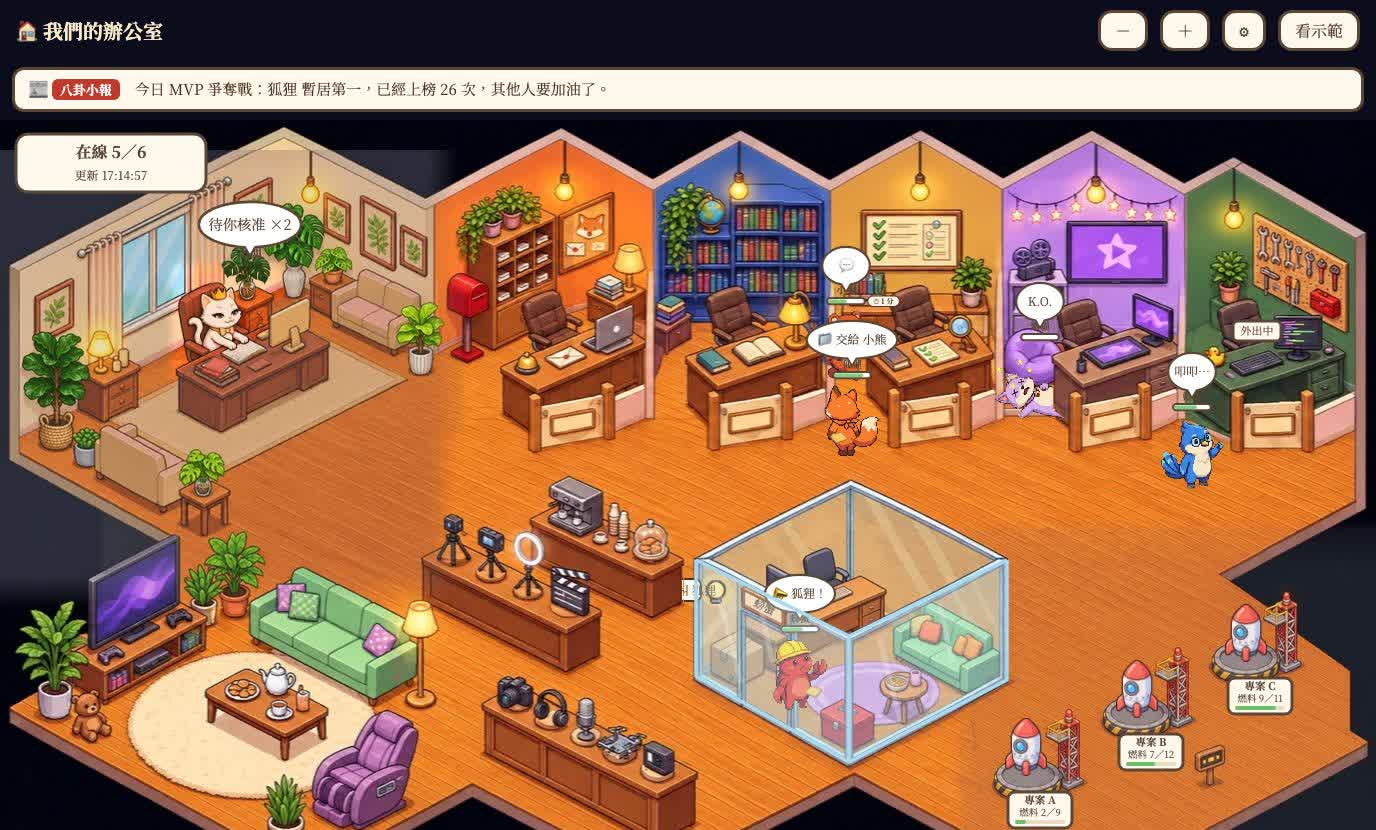
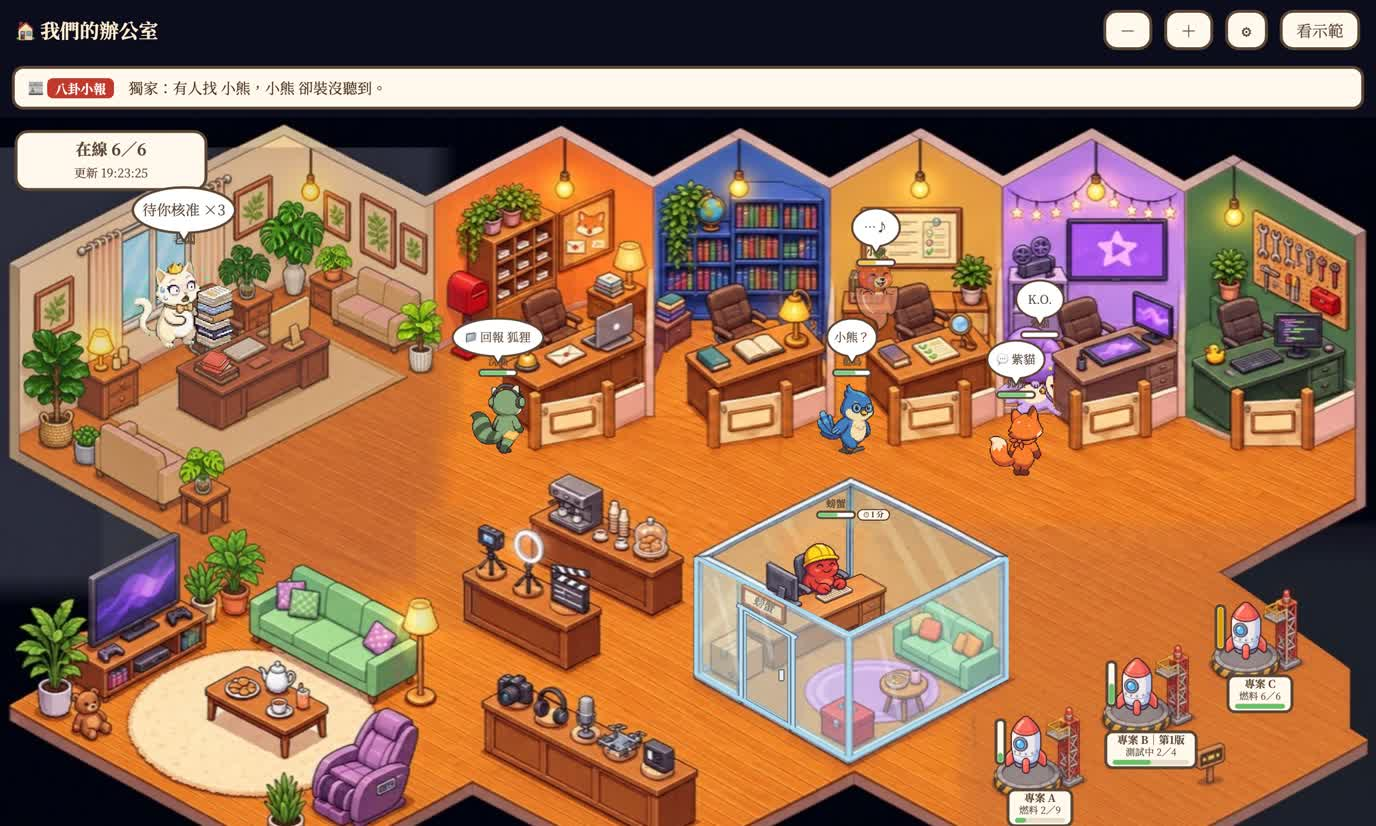
README: lead with project management; new screenshots in both languages
- New section on project management (garden, stage checklists, suggestions,
  milestones, roles, early warnings, add/reorder/put away)
- Fresh demo GIF and screenshots (office, project garden, Office Feed),
  with English versions for README.en.md

diff --git a/README.md b/README.md
@@ -2,9 +2,23 @@
 
 # 可視化辦公室
 
-一間像素風的小辦公室網頁：你的每個 AI 是一隻小動物，你是老闆，看一眼就知道誰在忙、誰閒著、誰卡住了。
+一間像素風的小辦公室網頁，也是一套輕鬆好上手的**專案管理工具**：你的每個 AI 是一隻小動物，你是老闆。看一眼就知道誰在忙、誰卡住了，每個專案做到哪、下一步是什麼。
 
-**English.** Visual Office is a single web page that shows your AI assistants as small animals working in a cozy pixel-art office, with you as the boss. Each thing an AI does has a visible, human-like action: it collapses when its quota runs out, turns into a ghost when it ignores messages, and paces outside a door when it can't reach someone. A tiny Python server (standard library only) collects status over HTTP and the page redraws every few seconds. It ships with a demo mode, so you can see a whole day play out before connecting anything.
+**English.** Visual Office is a single web page that shows your AI assistants as small animals working in a cozy pixel-art office, with you as the boss — and a light project manager: every project is a potted plant that grows as stages get ticked off. Each thing an AI does has a visible, human-like action: it collapses when its quota runs out, turns into a ghost when it ignores messages, and paces outside a door when it can't reach someone. A tiny Python server (standard library only) collects status over HTTP and the page redraws every few seconds. It ships with a demo mode, so you can see a whole day play out before connecting anything.
+
+## 專案管理
+
+不用另外開專案管理軟體，AI 團隊的進度就在辦公室裡：
+
+- 🪴 **專案花園**：每個專案是一盆植物，進度越多長越大（種子→發芽→長葉→花苞→結果）。一眼看完所有專案做到哪，盆邊站著主要負責的小動物。
+- ☑ **階段打勾**：替每個專案設好階段（例如 規劃→製作→測試→上線），AI 做完自己回報打勾，你也可以手動調整。會顯示完成百分比、下一步，以及每一步是什麼時候完成的。
+- 💡 **建議階段**：依專案類型（影片、網站、社群發文、文件、課程…）給建議，一鍵套用再自己改。
+- 🚀 **里程碑**：每完成一輪（一集、一版、一週、一篇發文…），大家到休息區乾杯，老闆走到發射台點火，火箭升空；動態牆留下紀錄。
+- 👥 **分工與貢獻**：誰在做哪個專案、各自的角色（派工協調、主要製作、執行支援）、貢獻星級。
+- 🚨 **提早發現問題**：鬼打牆、摸魚、沒請假就消失、連續工作太久，都會被標出來。
+- ➕ **自己整理**：「種一盆」新增專案、排前後順序、收起用不到的。
+
+![專案花園](docs/screenshot-garden.jpg)
 
 ## 畫面預覽
 

diff --git a/README.en.md b/README.en.md
@@ -2,15 +2,29 @@
 
 # Visual Office
 
-A small pixel-art office in a web page: each of your AIs is a little animal, you are the boss, and one glance tells you who is busy, who is free, and who is stuck.
+A small pixel-art office in a web page that doubles as a light, friendly **project manager**: each of your AIs is a little animal, you are the boss, and one glance tells you who is busy, who is stuck, how far each project has come and what comes next.
+
+## Project management
+
+Your AI team's progress lives right in the office, no separate tool needed:
+
+- 🪴 **Project garden**: every project is a potted plant that grows with progress (seed → sprout → leaves → buds → fruit). See all projects at a glance, with the lead animal standing by each pot.
+- ☑ **Stage checklists**: give each project stages (say Plan → Build → Test → Ship). AIs tick them off as they report; you can adjust by hand. Shows percent done, the next step and when each step was finished.
+- 💡 **Suggested stages**: ready-made stages by project type (video, website, social posts, documents, courses…), one tap to apply and edit.
+- 🚀 **Milestones**: each finished round (an episode, a version, a week, a post…) sends everyone to the lounge for a toast while the boss lights the rocket; the Office Feed keeps the record.
+- 👥 **Roles and contribution**: who is on which project, in which role (coordinator, lead maker, support), with contribution stars.
+- 🚨 **Spot problems early**: going in circles, slacking, vanishing without notice and working too long get flagged.
+- ➕ **Keep it tidy**: "Plant one" to add a project, reorder, and put away the ones you don't need.
+
+![Project garden](docs/screenshot-garden.en.jpg)
 
 ## Preview
 
-![Demo](docs/demo.gif)
+![Demo](docs/demo.en.gif)
 
-![The whole office](docs/screenshot-office.jpg)
+![The whole office](docs/screenshot-office.en.jpg)
 
-![Office Feed](docs/screenshot-replay.jpg)
+![Office Feed](docs/screenshot-replay.en.jpg)
 
 ## What it acts out
 
